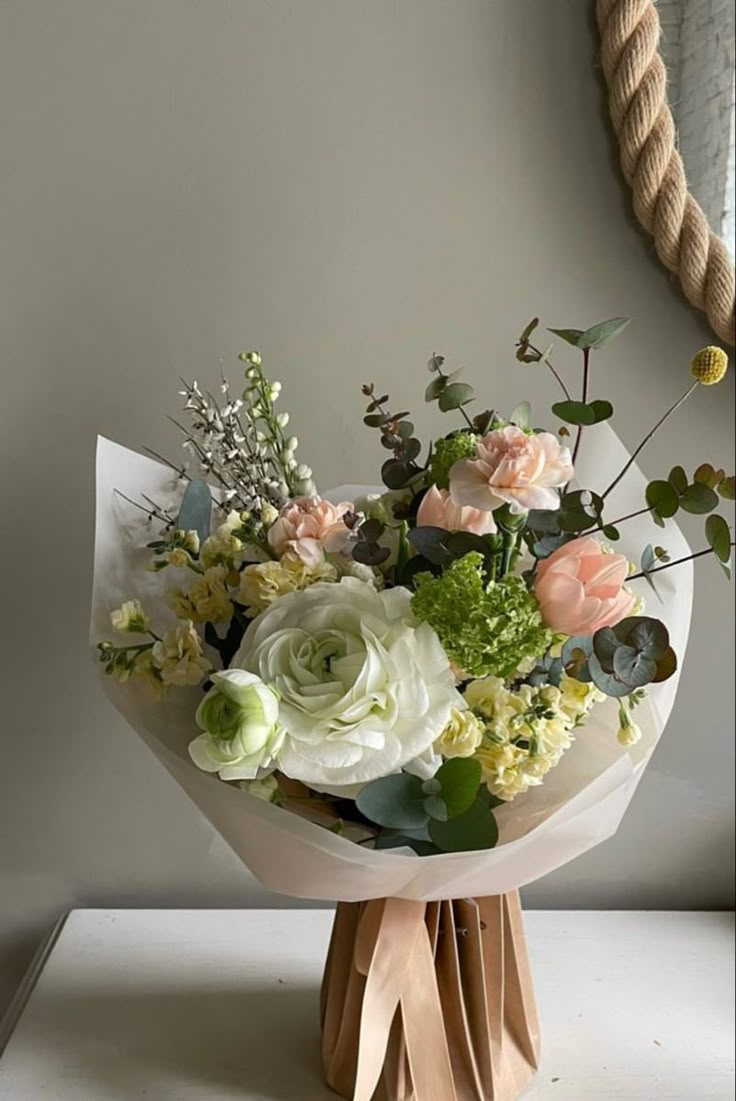
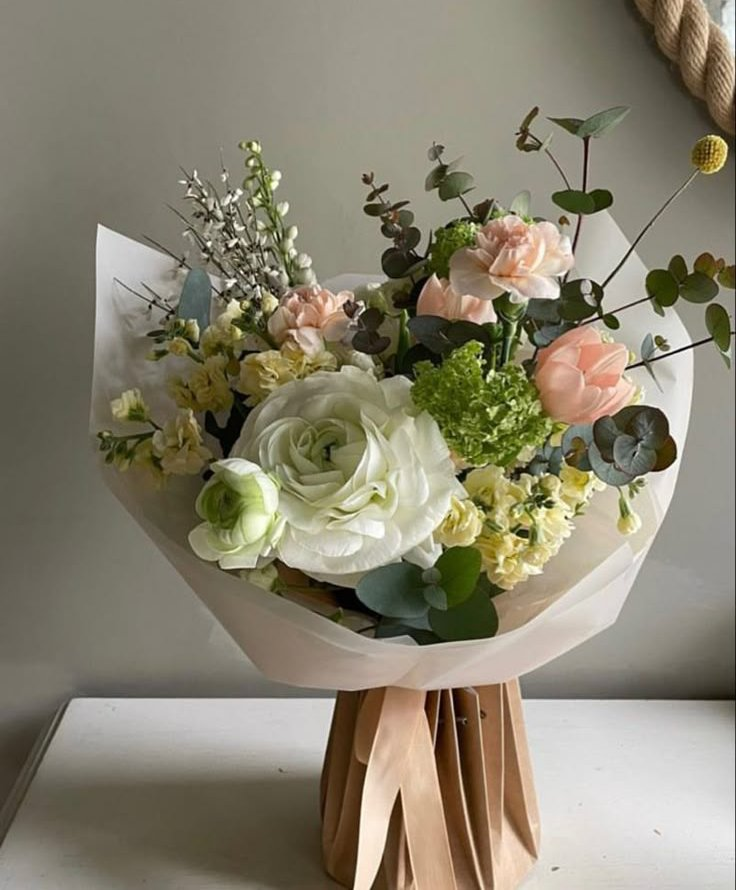
[+] Add event

diff --git a/portfolio-flowers-site/styles.css b/portfolio-flowers-site/styles.css
@@ -361,6 +361,139 @@ body {
     align-self: center;
 }
 
+.events {
+    background-color: var(--text-color1);
+    width: 100%;
+    padding: 0;
+    display: flex;
+    align-items: center;
+    justify-content: flex-start;
+    flex-direction: column;
+}
+
+.events-bg {
+    background: url('images/events-bouquet6.jpg') center/cover no-repeat;
+    width: 100%;
+    height: 30vh;
+    display: flex;
+    align-items: center;
+    justify-content: center;
+    position: relative;
+
+}
+
+.events-bg::before {
+    content: '';
+    position: absolute;
+    top: 0;
+    left: 0;
+    width: 100%;
+    height: 100%;
+    background: rgba(0, 0, 0, 0.4);
+    z-index: 1;
+}
+
+.events-bg .container {
+    position: relative;
+    z-index: 2;
+    color: var(--text-color1);
+    text-align: center;
+    padding: 40px 20px;
+}
+
+.events-bg h2 {
+    font-size: 2rem;
+    font-family: Cambria, Cochin, Georgia, Times, 'Times New Roman', serif;
+    text-transform: uppercase;
+}
+
+.events-bg p {
+    max-width: 800px;
+    margin: 0 auto;
+    font-size: 1.1rem;
+    line-height: 1.6;
+}
+
+.event-card {
+    width: 100%;
+    display: flex;
+    align-items: stretch;
+    justify-content: center;
+    flex-wrap: nowrap;
+    background-color: var(--first-color);
+    padding: 40px 60px;
+    box-sizing: border-box;
+    gap: 40px;
+}
+
+.event-card img {
+    width: 24%;
+    height: auto;
+    object-fit: cover;
+    object-position: center;
+}
+
+.event-info {
+    flex: 1;
+    min-width: 0;
+    padding: 10px 20px;
+    display: flex;
+    flex-direction: column;
+    justify-content: space-between;
+    gap: 10px;
+    max-width: 600px;
+}
+
+.event-info .date {
+    font-size: 1rem;
+    color: var(--text-color2);
+}
+
+.event-info h3 {
+    font-size: 1.5rem;
+    color: var(--text-color2);
+    text-transform: uppercase;
+    font-family: Cambria, Cochin, Georgia, Times, 'Times New Roman', serif;
+    margin-bottom: 10px;
+}
+
+.event-info p {
+    font-size: 1rem;
+    line-height: 1.5;
+    color: var(--text-color2);
+    overflow: hidden;
+    margin-bottom: 10px;
+}
+
+.event-info .price {
+    align-self: flex-start;
+    font-weight: bold;
+    font-size: 1.3rem;
+    color: var(--text-color2);
+    margin-bottom: 20px;
+}
+
+@media (max-width: 1100px) and (min-width: 769px) {
+    .event-card {
+        flex-wrap: wrap;
+        justify-content: center;
+        gap: 30px;
+        padding: 30px 40px;
+    }
+
+    .event-card img {
+        width: 40%;
+        min-width: 300px;
+        height: auto;
+    }
+
+    .event-info {
+        width: 50%;
+        max-width: 500px;
+        padding: 10px 15px;
+    }
+}
+
 @media (max-width: 768px) {
     .header .container {
         flex-direction: column;
@@ -422,6 +555,28 @@ body {
 
     .signature {
         font-size: 1.2rem;
+    }
+
+    .event-card {
+        flex-direction: column;
+        text-align: center;
+        padding: 20px;
+    }
+
+    .event-card img {
+        width: 90%;
+        margin: 0 auto 20px;
+    }
+
+    .event-info {
+        width: 100%;
+        padding: 0;
+        align-items: center;
+    }
+
+    .event-info .price,
+    .event-info .btn {
+        align-self: center;
     }
 }
 

diff --git a/portfolio-flowers-site/index.html b/portfolio-flowers-site/index.html
@@ -105,15 +105,17 @@
 
             <!-- Events Section -->
             <section class="events" id="events">
-                <div class="container">
-                    <h2>МЕРОПРИЯТИЯ</h2>
-                    <p>В нашем пространстве регулярно проходят мастер классы по созданию композиций из свежих и сухих цветов, а также чаепития и лекции о красоте.</p>
+                <div class="events-bg">
+                    <div class="container">
+                        <h2>Мероприятия</h2>
+                        <p>В нашем пространстве регулярно проходят мастер классы по созданию композиций из свежих и сухих цветов, а также чаепития и лекции о красоте.</p>
+                    </div>
                 </div>
                 <div class="event-card">
-                    <img src="images/events-bouquet3.jpg" alt="Мастер-класс">
+                    <img src="images/bouquet9.jpg" alt="Мастер-класс">
                     <div class="event-info">
                         <span class="date">24.03.2024</span>
-                        <h3>СОЗДАНИЕ ВЕСЕННЕГО БУКЕТА ИЗ ЖИВЫХ ЦВЕТОВ</h3>
+                        <h3>Создание весеннего букета из живых цветов</h3>
                         <p>На мастер классе вас ждет творческая и теплая атмосфера, создание цветочной композиции, собранной своими руками.</p>
                         <span class="price">5000 ₽</span>
                         <button class="btn">Записаться</button>
@@ -124,7 +126,7 @@
             <!-- Clients Section -->
             <section class="clients">
                 <div class="container">
-                    <h2>НАШИ КЛИЕНТЫ</h2>
+                    <h2>Наши клиенты</h2>
                     <div class="clients-slider">
                         <button class="slider-btn prev"><</button>
                         <div class="clients-list">
